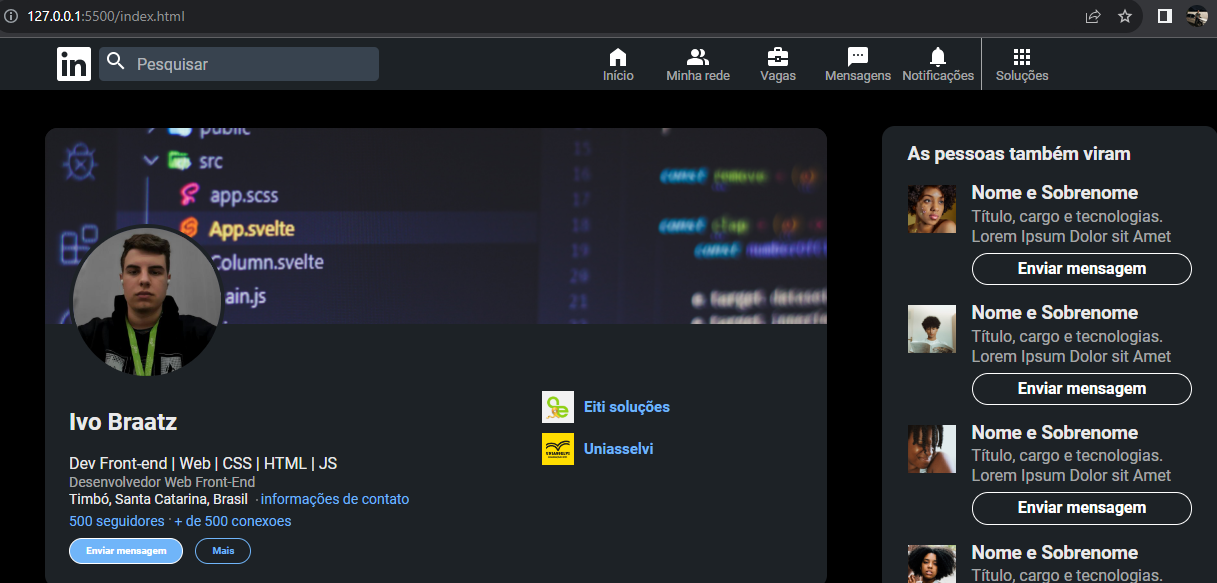
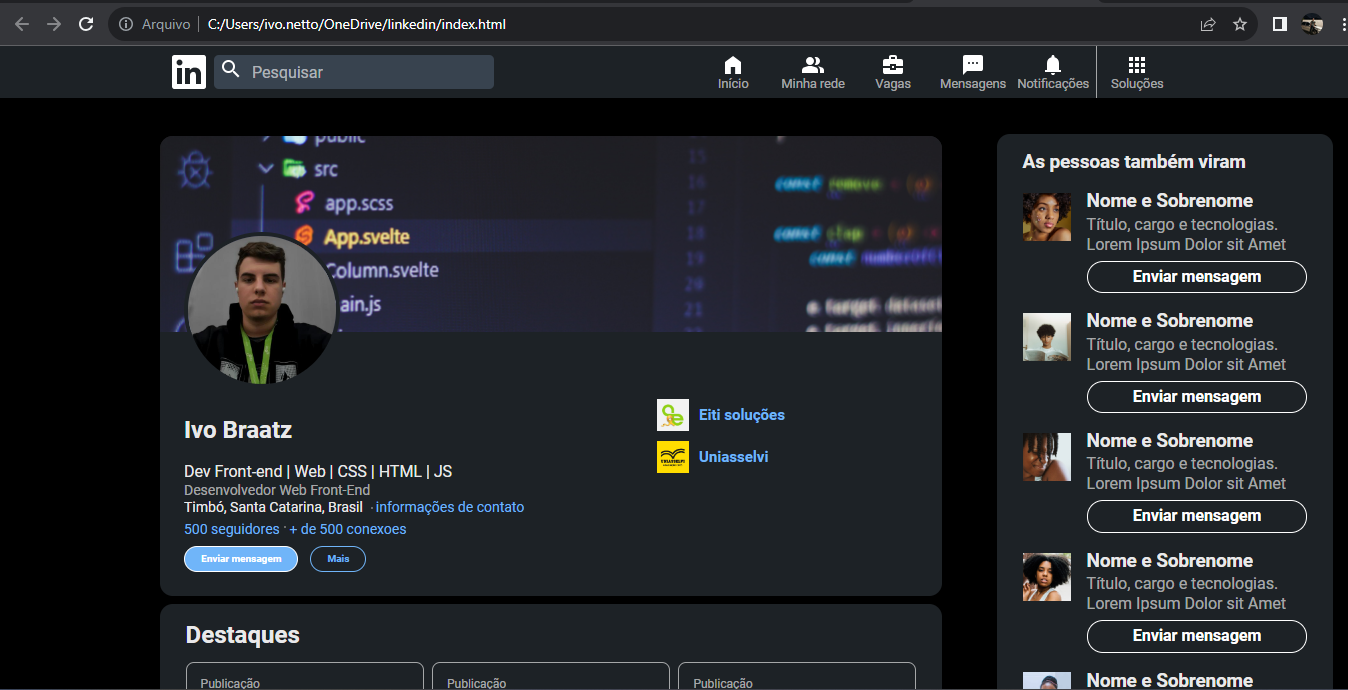
alterações
muitas alterações na aparencia do site

diff --git a/index.html b/index.html
@@ -24,7 +24,6 @@
                 </li>
         </div>
     </section>
-
     <section class="inicio">
         <div class="descricao">
             <h4 class="ola">HELLO WORLD!</h4>
@@ -33,8 +32,6 @@
         </div>
     </section>
     
-
-
     <main>
         <section class="sobre-mim">
             <h2 class="titulo-sobre">Sobre Mim</h2>
@@ -81,21 +78,21 @@
                     <img class="card-image-projetos" src="src/imgs/projetos/linkedin.png" alt="linkedin">
                 </a>
                 <h3 class="card-title">Linkedin</h3>
-                <p class="card-text">Perfil do LinkedIn criado durante o desafio #7DaysOfCode da Alura.</p>
+                <p class="card-text">Perfil do LinkedIn criado durante o desafio <strong>#7DaysOfCode</strong> da <strong>Alura</strong>.</p>
             </div>
             <div class="card-projetos">
                 <a href="https://github.com/IvoBraatz/clone-netflix">
                     <img class="card-image-projetos" src="src/imgs/projetos/netflix.png" alt="netflix">
                 </a>
                 <h3 class="card-title">Netflix</h3>
-                <p class="card-text">Inicio doa Netflix criado durante o desafio #7DaysOfCode da Alura.</p>
+                <p class="card-text">Inicio da Netflix criado durante o desafio <strong>#7DaysOfCode</strong> da <strong>Alura</strong>.</p>
             </div>
             <div class="card-projetos">
                 <a href="https://github.com/IvoBraatz/OptimusTech">
                     <img class="card-image-projetos" src="src/imgs/projetos/optimus.png" alt="optimus">
                 </a>
                 <h3 class="card-title">OptimusTech</h3>
-                <p class="card-text">Pagina da empresa ficticia OptimusTexh criado durante o desafio #7DaysOfCode da Alura.</p>
+                <p class="card-text">Pagina da empresa ficticia OptimusTexh criado durante o desafio <strong>#7DaysOfCode</strong> da <strong>Alura</strong>.</p>
             </div>
         </section>
     </main>
@@ -118,5 +115,6 @@
           <p class="copy">© 2023 Ivo Braatz. Todos os direitos reservados.</p>
         </section>
       </footer>
+      <script src="./index.js"></script>
 </body>
 </html>

diff --git a/src/Estilos/corpo.css b/src/Estilos/corpo.css
@@ -1,6 +1,6 @@
 .sobre-mim {
     max-width: 100%;
-    height: 19.5rem;
+    height: 20rem;
     display: flex;
     flex-direction: column;
     margin-bottom: 5rem;
@@ -9,16 +9,18 @@
     padding-top: 1rem;
     padding-bottom: 1rem;
     background: var(--cor-background);
+    border: 1px solid var(--cor-primaria);
 }
 
 .titulo-sobre {
-    margin-left: 2rem;
+    margin-left: 5rem;
     margin-bottom: 0.625rem;
     font-size: 2rem;
     font-style: italic;
 }
 
 .conteudo-sobre {
+    margin-left: 3rem;
     display: flex;
     align-items: center;
 }
@@ -33,7 +35,7 @@
     height: auto;
     box-shadow: 0.3125rem 0.3125rem 0.625rem rgba(0, 0, 0, 0.2);
     border-radius: 1rem;
-
+    border: 1px solid var(--cor-primaria);
 }
 
 .descricao-container {
@@ -81,13 +83,13 @@
     margin-top: 3rem;
     margin-bottom: 3rem;
     text-align: center;
+    font-size: 2.5rem;
 }
 
 .card-linguagens {
     margin-top: 2rem;
-    margin-right: 2rem;
     max-width: 16rem;
-    height: 22rem;
+    height: 24rem;
     flex: 0 0 calc(33.333% - 20px);
     border: 1px solid #ccc;
     padding: 0.625rem;
@@ -96,11 +98,11 @@
     box-shadow: 0.3125rem 0.3125rem 0.625rem rgba(0, 0, 0, 0.2);
     background: var(--cor-background);
     white-space: normal;
+    border: 1px solid var(--cor-primaria);
 }
 
 .card-projetos{
     margin-top: 2rem;
-    margin-right: 2rem;
     max-width: 16rem;
     height: 16rem;
     flex: 0 0 calc(33.333% - 20px);
@@ -111,18 +113,21 @@
     box-shadow: 0.3125rem 0.3125rem 0.625rem rgba(0, 0, 0, 0.2);
     background: var(--cor-background);
     white-space: normal;
+    border: 1px solid var(--cor-primaria);
 }
 
 .card-image {
     padding-top: 1rem;
     max-width: 10rem;
     height: auto;
+    
 }
 
 .card-image-projetos{
-    padding-top: 1rem;
+    margin-top: 1rem;
     max-width: 14rem;
     height: auto;
+    border-radius: .5rem;
 }
 
 .card-title {
@@ -132,6 +137,12 @@
 
 .card-text {
     font-size: 0.875rem;
+    text-align: justify;
+    padding-left: 1rem;
+    padding-right: 1rem;
+    font-size: 1rem;
+    font-weight: 400;
+    margin-bottom: 1rem;
 }
 
 /* Estilos responsivos */

diff --git a/src/Estilos/footer.css b/src/Estilos/footer.css
@@ -1,17 +1,17 @@
+
+
 .rodape{
-    padding-top: 6rem;
+    padding-top: 2rem;
     width: 100%;
-    height: 26.875rem;
-    gap: 2rem;
-    margin: 0 auto;
+    height: 13.5rem;
     background:  var(--cor-background);
     box-shadow: 0.3125rem 0.3125rem 0.625rem rgba(0, 0, 0, 0.2);
     border-radius: 1rem;
+    border: 1px solid var(--cor-primaria);
 }
 
 .container-rodape{
     width: 100%;
-    height: 11.375rem;
     padding: 0rem, 2rem, 0rem, 2rem;
     gap: 2rem;
     margin: 0 auto;
@@ -21,16 +21,10 @@
 
 .conteudo-rodape{
     width: 100%;
-    height: 11.375rem;
-    gap: 2.5rem;
-    margin: 0 auto;
 }
 
 .acompanhe{
     text-align: center;
-    width: 100%;
-    height: 2.75rem;
-    margin: 0 auto;
     font-size: 2.2rem;
     line-height: 2.75rem;
     font-weight: 600;
@@ -38,9 +32,6 @@
 
 .paragrafo{
     text-align: center;
-    width: 100%;
-    height: 1.875rem;
-    margin: 0 auto;
     font-size: 1.25rem;
     line-height: 1.875rem;
     font-weight: 400;
@@ -52,19 +43,14 @@
     text-align: center;
     width: 100%;
     height: 3rem;
-    gap: 1rem;
-    margin: 0 auto; 
 }
 
 .copy{
     text-align: center;
-    width: 100%;
-    height: 1.5rem;
-    margin: 0 auto;
     font-size: 1rem;
     line-height: 1.5rem;
     font-weight: 400;
-    margin-top: 3rem ;
+    margin-top: 1rem ;
     color: #98A2B3;
     ;
 }
@@ -73,7 +59,6 @@ input[type="email"] {
     width: 300px;
     height: 50%;
     padding: 0.625rem;
-    margin-bottom: 0.625rem;
     border: 0.00625rem solid #ccc;
     border-radius: .5rem;
 }

diff --git a/src/Estilos/descricao.css b/src/Estilos/descricao.css
@@ -3,20 +3,36 @@
 }
 
 .ola {
-    font-size: 1rem;
+    font-size: 1.8rem;
+    font-weight: 600;
     padding-bottom: 0.5rem;
     font-style: italic;
+    background-image: url(../imgs/background.jpeg);
+    background-size: cover;
+    background-clip: text;
+    -webkit-background-clip: text;
+    color: transparent;
 }
 
 .apresentacao {
-    font-size: 4rem;
+    font-size: 5rem;
     font-weight: 600;
+    background-image: url(../imgs/background.jpeg);
+    background-size: cover;
+    background-clip: text;
+    -webkit-background-clip: text;
+    color: transparent;
     
 }
 
 .mini {
     padding-top: 0.625rem;
-    font-size: 1.125rem;
+    font-size: 1.5rem;
     font-style: oblique ;
-    font-weight: 500;
+    font-weight: 600;
+    background-image: url(../imgs/background.jpeg);
+    background-size: cover;
+    background-clip: text;
+    -webkit-background-clip: text;
+    color: transparent;
 }

diff --git a/src/Estilos/cabecalho.css b/src/Estilos/cabecalho.css
@@ -1,5 +1,6 @@
 .cabecalho {
     text-align: center;
+    
 
 }
 
@@ -12,6 +13,7 @@
     justify-content: space-between;
     box-shadow: 0.3125rem 0.3125rem 0.625rem rgba(0, 0, 0, 0.2);
     border-radius: 1rem;
+    border: 1px solid var(--cor-primaria);
 }
 
 .cabecalho-nome{
@@ -27,13 +29,16 @@
     color: var(--cor-primaria);
     font-size: 1.125rem;
     padding-right: 3rem;
+
 }
 
 .cabecalho-sobre:hover,
 .cabecalho-projetos:hover,
 .cabecalho-conhecimentos:hover,
 .cabecalho-contato:hover {
-    color: #4d37b5;
+    color: var(--cor-hover);
+    transform: scale(1.1);
+    transition: transform 0.7s ease;
 }
 
 
@@ -54,8 +59,12 @@
     font-size: 2rem;
     display: flex;
     margin-right: 1.5rem;
+    margin-left: 1rem;
 }
 
 .cabecalho-nome:hover {
+    color: var(--cor-hover);
     text-decoration: none;
+    transform: scale(1.1);
+    transition: transform 0.3s ease;
 }

diff --git a/src/Estilos/styles.css b/src/Estilos/styles.css
@@ -12,6 +12,7 @@ body {
     font-family: Roboto, sans-serif;
     margin-left: 5rem;
     margin-right: 5rem;
+    background: #f5f5f5;
 }
 
 h1, h2, h3, h4, h5, h6 {

diff --git a/src/Estilos/links.css b/src/Estilos/links.css
@@ -1,5 +1,6 @@
 .lista-links {
     list-style: none;
+    margin-right: 1rem;
     
 }
 
